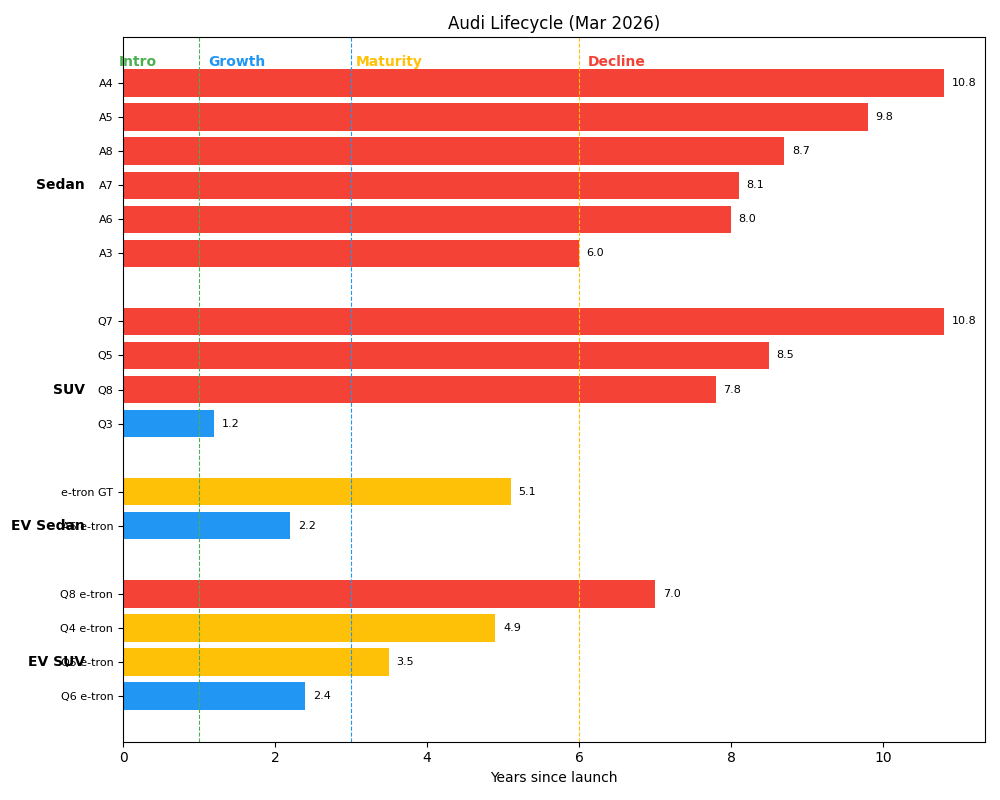
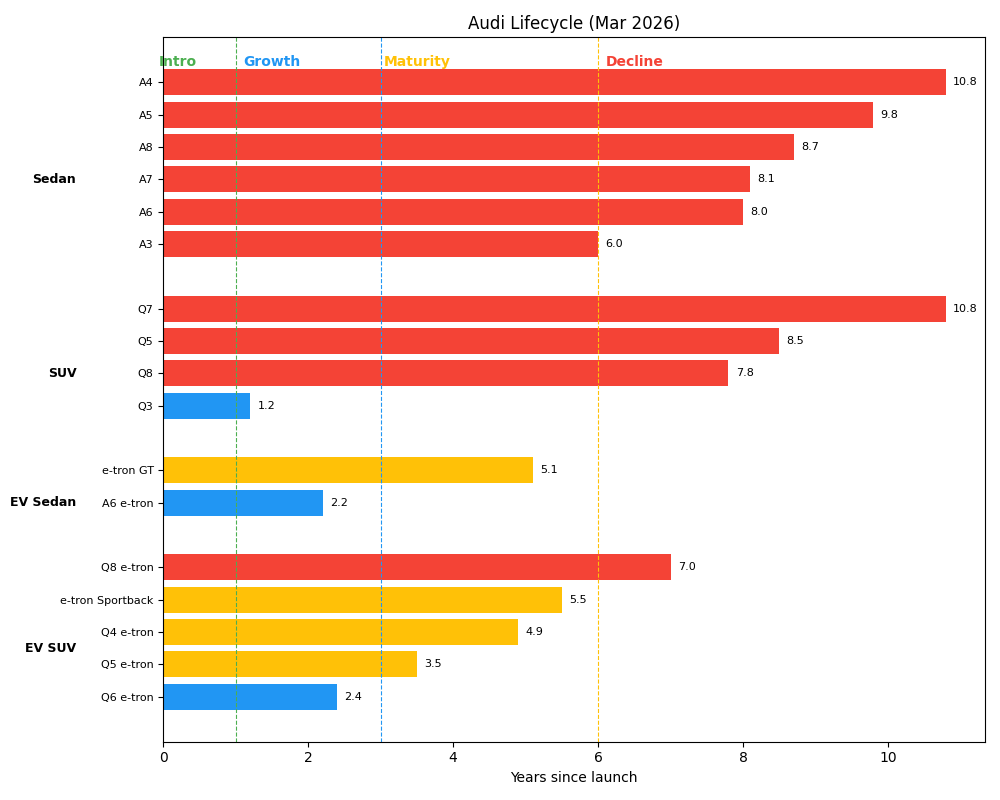
Add more EV models and fix label overlap

diff --git a/life_cycle.py b/life_cycle.py
@@ -80,7 +80,7 @@ def plot_brand(ax, data, brand_name):
 
     # 类别标签
     for cat, pos in category_positions.items():
-        ax.text(-0.5, pos, cat, ha='right', va='center', fontsize=10, fontweight='bold')
+        ax.text(-1.2, pos, cat, ha='right', va='center', fontsize=9, fontweight='bold')
 
     ax.invert_yaxis()
 
@@ -114,7 +114,8 @@ mercedes = {
     "EV SUV": {
         "EQC": "2019-05",
         "EQA": "2021-10",
-        "EQB": "2022-03"
+        "EQB": "2022-03",
+        "EQV": "2022-06"
     }
 }
 
@@ -141,7 +142,8 @@ audi = {
         "Q4 e-tron": "2021-04",
         "Q8 e-tron": "2019-03",
         "Q6 e-tron": "2023-10",
-        "Q5 e-tron": "2022-09"
+        "Q5 e-tron": "2022-09",
+        "e-tron Sportback": "2020-09"
     }
 }
 
@@ -161,13 +163,15 @@ bmw = {
     },
     "EV Sedan": {
         "i4": "2021-06",
-        "i7": "2022-04"
+        "i7": "2022-04",
+        "i5": "2023-10"
     },
     "EV SUV": {
         "iX3": "2020-07",
         "iX": "2021-11",
         "iX1": "2022-11",
-        "iX2": "2023-11"
+        "iX2": "2023-11",
+        "iX M60": "2022-11"
     }
 }
 
